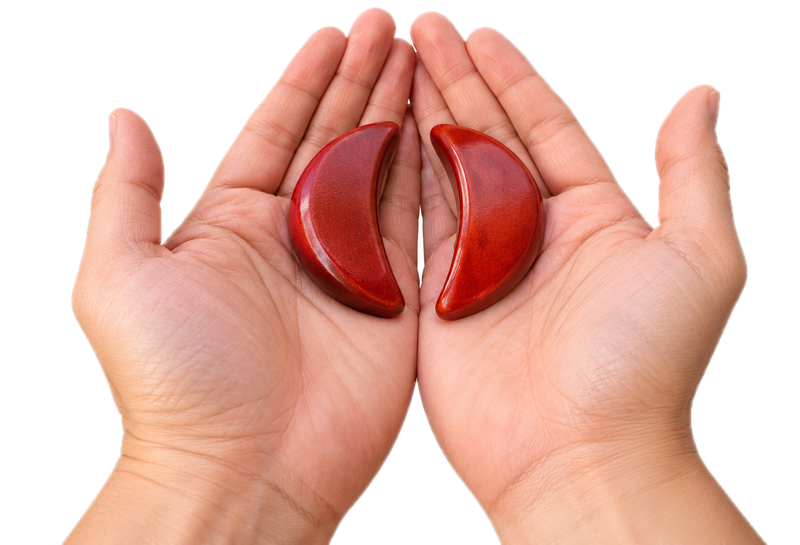
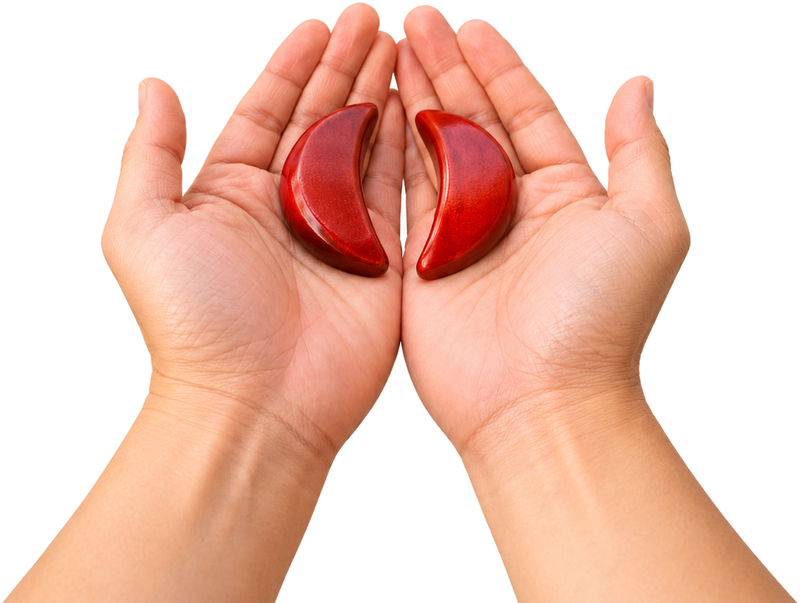
Add files via upload
update image

diff --git a/qiuqian/js/app.js b/qiuqian/js/app.js
@@ -38,7 +38,7 @@
     if (state.panel) { state.panel.destroy(); state.panel = null; }
     state.view = view;
     VIEWS.forEach(v => { $('#view-' + v).hidden = v !== view; });
-    const plain = view === 'mode' || view === 'bei';              // 這兩頁不是求籤流程,不顯示步驟列和標題列的聖筊次數
+    const plain = view === 'mode' || view === 'bei' || (view === 'series' && state.mode === 'query');              // 這兩頁不是求籤流程,不顯示步驟列和標題列的聖筊次數
     $('#steps').hidden = plain;
     $('.rule').hidden = plain;
     if (!plain) renderSteps(STEP_OF[view]);
@@ -74,12 +74,13 @@
     $('[data-act="bei-home"]').addEventListener('click', restart);
   }
 
-  function chooseMode(m) {
+  function chooseMode(m, keep) {
+    if (!keep) state.series = null;
     state.mode = m;
-    if (m === 'qiuqian') return go('series');
+    if (m === 'qiuqian' || (m === 'query' && !state.series)) return go('series');
     go('bei');
     const q = m === 'query';
-    $('#beiTitle').textContent = q ? '只問事不抽籤' : '測試擲筊';
+    $('#beiTitle').textContent = q ? `只問事不抽籤 · ${state.series.temple}` : '測試擲筊';
     $('#beiForm').hidden = !q;
     $('#beiVow').hidden = true;
     $('#bCat').value = ''; $('#bQuestion').value = '';
@@ -94,7 +95,7 @@
       if (q) {
         $('#beiForm').hidden = true;
         const qs = $('#bQuestion').value.trim();
-        $('#beiVow').textContent = `所問之事:${$('#bCat').value}${qs ? `(${qs})` : ''}`;
+        $('#beiVow').textContent = `向${state.series.patron}(${state.series.temple})請示:${$('#bCat').value}${qs ? `(${qs})` : ''}`;
         $('#beiVow').hidden = false;
       }
       state.panel = new QQ.BeiPanel($('#beiPanel'), {
@@ -102,7 +103,7 @@
         successLabel: q ? '神明允准,再問一事' : '再測一次',
         failText: { xiao: '神明笑而不答,請再擲一次。', yin: '神明未允,請再擲一次。' },
         failActions: [{ label: '重新擲筊', retry: true }, { label: '回到首頁', handler: restart }],
-        onSuccess: () => chooseMode(state.mode)
+        onSuccess: () => chooseMode(state.mode, true)
       });
     };
     if (QQ.device.isMobile) QQ.motion.request().then(run); else run();
@@ -129,6 +130,7 @@
 
   function chooseSeries(s) {
     state.series = s;
+    if (state.mode === 'query') { document.querySelectorAll('.patron').forEach(e => (e.textContent = s.patron)); return chooseMode('query', true); }
     document.querySelectorAll('.patron').forEach(e => (e.textContent = s.patron));
     $('#drawCount').textContent = s.total;
     $('#petitionSeries').textContent = `${s.name}(${s.official})`;

diff --git a/qiuqian/js/config.js b/qiuqian/js/config.js
@@ -42,7 +42,7 @@ QQ.config = {
          它也會告訴您該填的 ms。 */
   handsImage: 'img/hands.png',
   beiAnim: {
-    sheng: { src: ['img/toss_sheng.gif', 'img/toss_sheng.webp'], ms: 5000 },   // 聖筊:一陽一陰
+    sheng: { src: ['img/toss_sheng.gif', 'img/toss_sheng.webp'], ms: 4400 },   // 聖筊:一陽一陰
     xiao:  { src: ['img/toss_xiao.gif',  'img/toss_xiao.webp'],  ms: 3000 },   // 笑筊:兩個平面朝上
     yin:   { src: ['img/toss_yin.gif',   'img/toss_yin.webp'],   ms: 5000 }    // 陰筊:兩個圓背朝上
   },

diff --git a/qiuqian/README.md b/qiuqian/README.md
@@ -76,3 +76,8 @@ images\           籤詩圖 NNN.jpg
 2. 只問事不抽籤:選問事類別(必選)、事由(選填),擲筊請示,不抽籤不解籤。
 3. 測試擲筊:不用輸入任何資料,直接擲筊。
 後兩者可在畫面上設定「需連續幾個聖筊」(1–9 次,會記住)。
+- 「只問事不抽籤」也要先選行天宮或奉天宮(問哪一位神明),擲筊畫面會顯示所問的寺與神明。
+
+## 第 28 版
+- 聖筊動畫換成新的 GIF(已轉成只播一次、停在最後一格的 img/toss_sheng.webp,44 格 × 0.1 秒 = 4400 ms,已同步改 config.js)。
+- 雙手捧筊圖 img/hands.png 換成新照片(白底已去背)。
